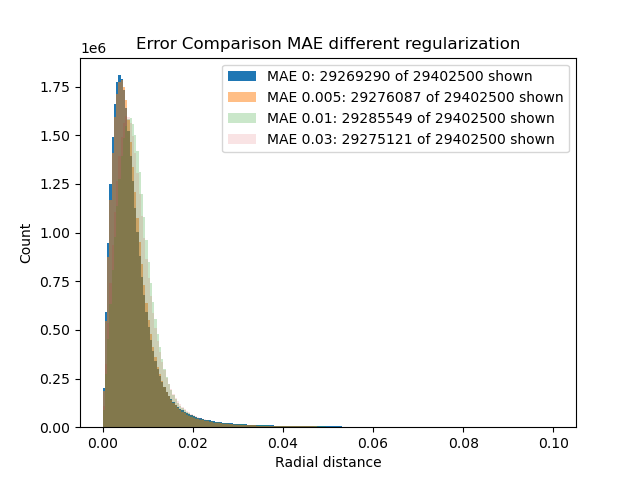
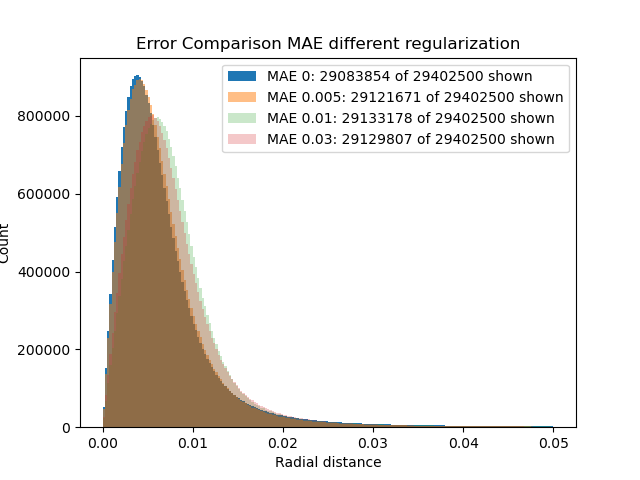
More small visualization changes

diff --git a/src/point_map_nn/visualize.py b/src/point_map_nn/visualize.py
@@ -44,25 +44,26 @@ if __name__ == '__main__':
     model_mae_0.load_weights('model_weights/mae_point_map_no_reg.h5')
     print('Predicting MAE models...')
     fig = plt.figure()
+    cutoff = 0.05
     print('Reg 0')
     Y_pred_mae_0 = model_mae_0.predict(X_val, batch_size = 99999999999999)
     R_mae_0 = np.sqrt((Y_val[:, 0] - Y_pred_mae_0[:,0]) ** 2 + (Y_val[:, 1] - Y_pred_mae_0[:, 1]) ** 2)
-    plt.hist(R_mae_0[R_mae_0 < 0.1], 200, label=f'MAE 0: {len(R_mae_0[R_mae_0 < 0.1])} of {len(R_mae_0)} shown')
+    plt.hist(R_mae_0[R_mae_0 < cutoff], 200, label=f'MAE 0: {len(R_mae_0[R_mae_0 < cutoff])} of {len(R_mae_0)} shown')
     del model_mae_0, Y_pred_mae_0, R_mae_0
     print('Reg 0.005')
     Y_pred_mae_005 = model_mae_005.predict(X_val, batch_size = 99999999999999)
     R_mae_005 = np.sqrt((Y_val[:, 0] - Y_pred_mae_005[:,0]) ** 2 + (Y_val[:, 1] - Y_pred_mae_005[:, 1]) ** 2)
-    plt.hist(R_mae_005[R_mae_005 < 0.1], 200, label=f'MAE 0.005: {len(R_mae_005[R_mae_005 < 0.1])} of {len(R_mae_005)} shown', alpha=0.5)
+    plt.hist(R_mae_005[R_mae_005 < cutoff], 200, label=f'MAE 0.005: {len(R_mae_005[R_mae_005 < cutoff])} of {len(R_mae_005)} shown', alpha=0.5)
     del model_mae_005, Y_pred_mae_005, R_mae_005
     print('Reg 0.01')
     Y_pred_mae_01 = model_mae_01.predict(X_val, batch_size = 99999999999999)
     R_mae_01 = np.sqrt((Y_val[:, 0] - Y_pred_mae_01[:,0]) ** 2 + (Y_val[:, 1] - Y_pred_mae_01[:, 1]) ** 2)
-    plt.hist(R_mae_01[R_mae_01 < 0.1], 200, label=f'MAE 0.01: {len(R_mae_01[R_mae_01 < 0.1])} of {len(R_mae_01)} shown', alpha=0.25)
+    plt.hist(R_mae_01[R_mae_01 < cutoff], 200, label=f'MAE 0.01: {len(R_mae_01[R_mae_01 < cutoff])} of {len(R_mae_01)} shown', alpha=0.25)
     del model_mae_01, Y_pred_mae_01, R_mae_01
     print('Reg 0.03')
     Y_pred_mae_03 = model_mae_03.predict(X_val, batch_size = 99999999999999)
     R_mae_03 = np.sqrt((Y_val[:, 0] - Y_pred_mae_03[:,0]) ** 2 + (Y_val[:, 1] - Y_pred_mae_03[:, 1]) ** 2)
-    plt.hist(R_mae_03[R_mae_03 < 0.1], 200, label=f'MAE 0.03: {len(R_mae_03[R_mae_03 < 0.1])} of {len(R_mae_03)} shown', alpha=0.125)
+    plt.hist(R_mae_03[R_mae_03 < cutoff], 200, label=f'MAE 0.03: {len(R_mae_03[R_mae_03 < cutoff])} of {len(R_mae_03)} shown', alpha=0.25)
     del model_mae_03, Y_pred_mae_03, R_mae_03
     print('Done')
     plt.xlabel('Radial distance')
